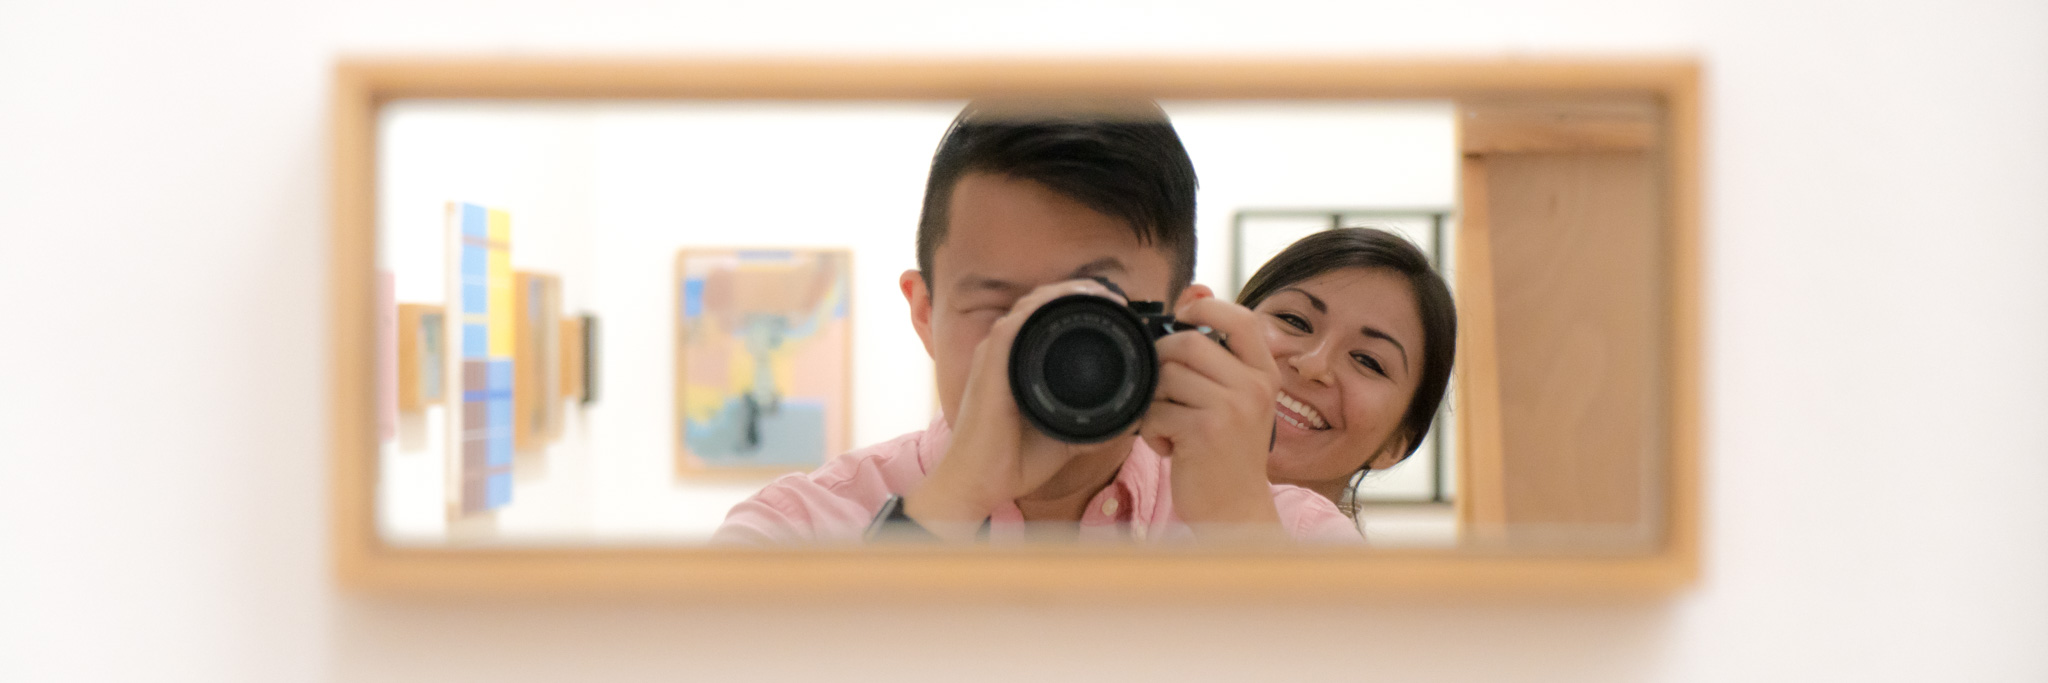
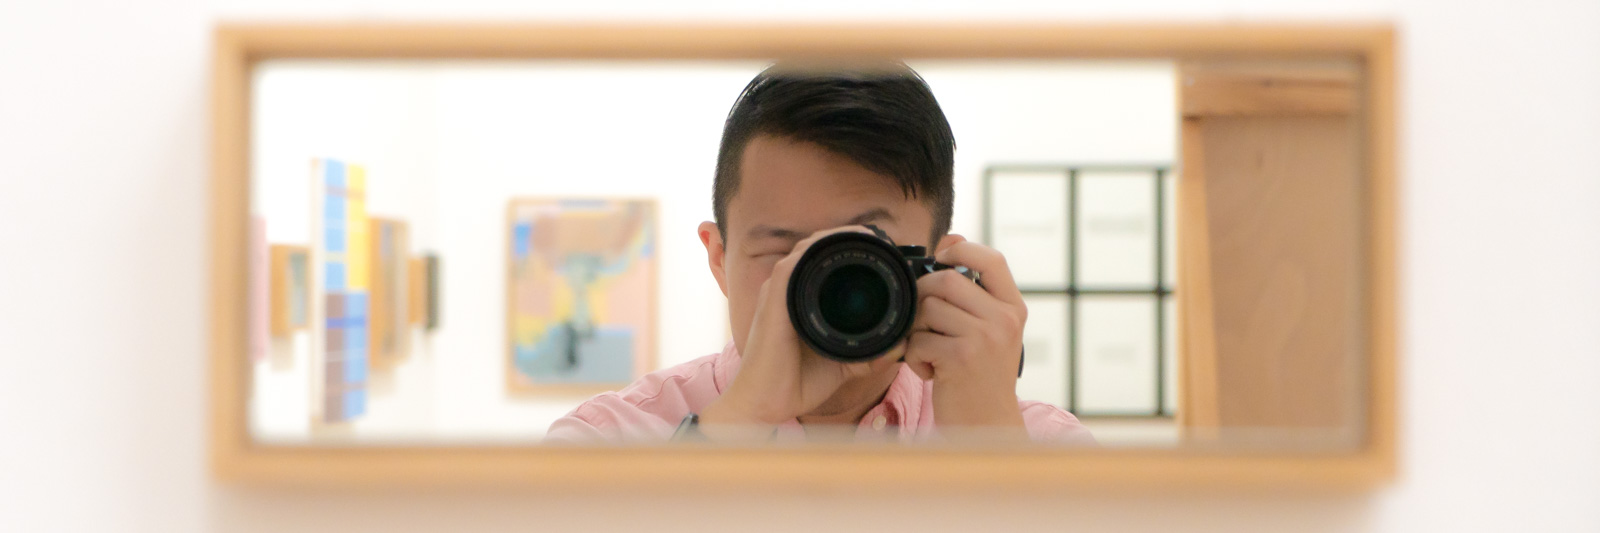
Change home page header img to reflection of Earl

diff --git a/src/pages/index.js b/src/pages/index.js
@@ -9,7 +9,10 @@ export default ({ data }) => (
     <Helmet>
       <title>About Earl</title>
     </Helmet>
-    <img src="../earl-in-rome.jpg" alt="Earl in Rome" />
+    <img
+      src="../reflection-in-mirror.jpg"
+      alt="Reflection in mirror of Earl Lee"
+    />
     <p className="latest-post-container">
       Read my latest blog post{" "}
       <a href="/covid-19-podcast-arthur-brooks-len-schlesinger">here</a>!
@@ -79,8 +82,9 @@ export default ({ data }) => (
     </p>
 
     <h3>Side-Project</h3>
+    <p>Currently working on exploring ideas in the fitness space.</p>
     <p>
-      I'm currently working on{" "}
+      My latest side project is{" "}
       <OutboundLink
         target="_blank"
         href="https://retaino.com"
@@ -91,11 +95,6 @@ export default ({ data }) => (
       , a way to overcome the mindless consumption of content driven by ads and
       algorithms and, instead, focus on learning and retaining useful knowledge
       using spaced repetition.
-    </p>
-    <p>
-      Separately, I'm also exploring the changing landscape for health & fitness
-      products, such as the adoption of at-home connected devices including
-      Peloton and Tonal.
     </p>
 
     <h3>Interests</h3>

diff --git a/src/utils/typography.js b/src/utils/typography.js
@@ -4,28 +4,28 @@ import kirkhamTheme from "typography-theme-kirkham";
 kirkhamTheme.overrideStyles = ({ rhythm }, options) => ({
   body: {
     fontFamily: "'Helvetica Neue',serif",
-    fontSize: "0.8em"
+    fontSize: "0.8em",
   },
   "h1,h2,h3,h4,h5,h6": {
-    fontFamily: "'Ibarra Real Nova', serif"
+    fontFamily: "'Ibarra Real Nova', serif",
   },
   a: {
     textDecoration: "none",
-    color: "#386dc0" // Blue
-    // color: "#a41034" // Red
-    // color: "#9f392b" // Original
-  }
+    // color: "#386dc0" // Blue
+    // color: "#a41034", // Red
+    color: "#9f392b", // Original
+  },
 });
 
 kirkhamTheme.googleFonts = [
   {
     name: "Ibarra Real Nova",
-    styles: [""]
+    styles: [""],
   },
   {
     name: "EB Garamond",
-    styles: []
-  }
+    styles: [],
+  },
 ];
 
 const typography = new Typography(kirkhamTheme);
